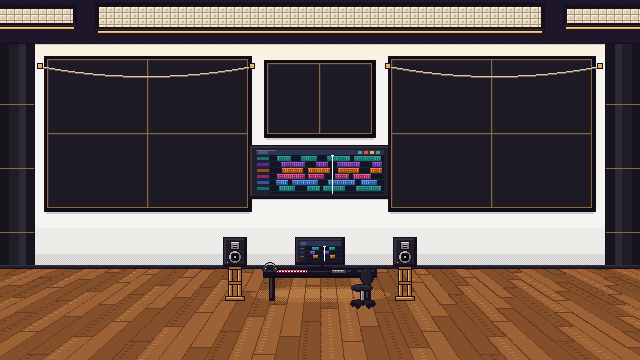
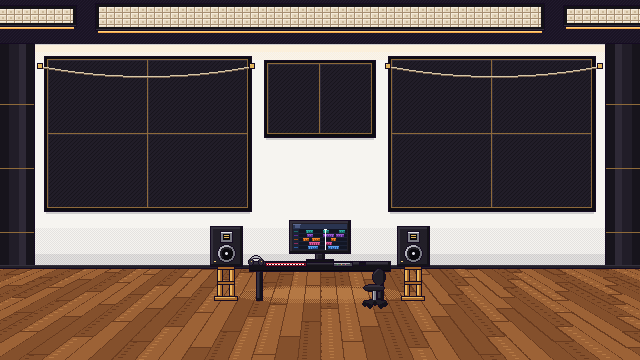
Studio: no wall screen, bigger desk, monitor and speakers; level hint on the wall under the title
Claude-Session: https://claude.ai/code/session_01TasNW2k2gt24iKvy6bENBs

Changed region(s): [[0.3125, 0.6111, 0.6875, 0.8556], [0.375, 0.3972, 0.625, 0.5806]]

diff --git a/src/scenes/HomeScene.js b/src/scenes/HomeScene.js
@@ -5,14 +5,14 @@ import heroJump from '../art/hero/jump.png';
 import { touch, showTouchControls } from '../touch/TouchControls.js';
 import { hasSeenIntro, levelsDone, levelPhoto } from '../progress.js';
 import {
-  preloadHome, cardKey, LEVEL_COUNT, CARD_AT, CARD_WINDOW, SELECT_OFFSET, MONITOR_SCREEN, TITLE_PANEL,
+  preloadHome, cardKey, LEVEL_COUNT, CARD_AT, CARD_WINDOW, SELECT_OFFSET, HINT_AREA, TITLE_PANEL,
 } from '../art/home.js';
 
 const FONT = '"Press Start 2P", monospace';
 const GOLD = '#ffd34a';
 // The levels that exist so far; the others can be unlocked but say "coming soon".
 const BUILT = new Set([1]);
-const BORIS_AT = { x: 300, floor: 300 }; // in front of his desk, under the monitor
+const BORIS_AT = { x: 300, floor: 300 }; // in front of his desk
 
 // The home screen and level menu: Boris's music studio. The 10 levels hang as instant photos on two
 // strings. Finished levels show their winner photo from Felix, the next level has a play arrow, and
@@ -33,7 +33,7 @@ export default class HomeScene extends Phaser.Scene {
 
   create(data) {
     this.add.image(0, 0, 'home-studio').setOrigin(0);
-    // On a phone the cards are tapped directly: tap one to pick it, tap it again (or the monitor) to play.
+    // On a phone the cards are tapped directly: tap one to pick it, tap it again (or the level hint) to play.
     showTouchControls(false);
     this.events.once('shutdown', () => showTouchControls(true));
     this.controls = new Controls(this);
@@ -127,7 +127,7 @@ export default class HomeScene extends Phaser.Scene {
     });
   }
 
-  // The game's name on the empty panel above the monitor.
+  // The game's name on the empty panel at the top of the wall.
   addTitle() {
     const cx = TITLE_PANEL.x + TITLE_PANEL.w / 2;
     const cy = TITLE_PANEL.y + TITLE_PANEL.h / 2;
@@ -135,11 +135,11 @@ export default class HomeScene extends Phaser.Scene {
       .setOrigin(0.5).setShadow(2, 2, '#12081c', 0, false, true).setDepth(2);
   }
 
-  // A short hint on the monitor, over a dark box: which level, and how to play it.
+  // A short hint on the wall under the title, in a dark box: which level, and how to play it.
   addHint() {
-    const cx = MONITOR_SCREEN.x + MONITOR_SCREEN.w / 2;
-    const cy = MONITOR_SCREEN.y + MONITOR_SCREEN.h / 2;
-    this.add.rectangle(cx, cy, MONITOR_SCREEN.w - 6, 30, 0x12081c, 0.88).setDepth(2)
+    const cx = HINT_AREA.x + HINT_AREA.w / 2;
+    const cy = HINT_AREA.y + HINT_AREA.h / 2;
+    this.add.rectangle(cx, cy, HINT_AREA.w - 10, 34, 0x221533).setStrokeStyle(2, 0xe0b45c).setDepth(2)
       .setInteractive({ useHandCursor: true }).on('pointerdown', () => this.play());
     const style = { fontFamily: FONT, fontSize: '8px', align: 'center' };
     this.hintTop = this.add.text(cx, cy - 6, '', { ...style, color: GOLD }).setOrigin(0.5).setDepth(3);

diff --git a/src/art/home.js b/src/art/home.js
@@ -16,7 +16,8 @@ export const CARD_AT = [
 // The photo window on a finished card (transparent; the level's winner photo goes under it).
 export const CARD_WINDOW = { x: 4, y: 10, w: 32, h: 22 };
 export const SELECT_OFFSET = { x: -3, y: 3 };
-export const MONITOR_SCREEN = { x: 256, y: 150, w: 128, h: 44 };
+// Free white wall under the title, between the panels: the level hint goes here, in a dark box.
+export const HINT_AREA = { x: 252, y: 146, w: 136, h: 52 };
 export const TITLE_PANEL = { x: 268, y: 64, w: 103, h: 69 };
 
 export const cardKey = (level, state) => `home-card-${level}-${state}`;

diff --git a/README.md b/README.md
@@ -21,7 +21,7 @@ Controls: left/right arrows to move, up arrow to jump (hold for a higher jump), 
 
 On a phone or tablet the game fills the screen, and the controls are kept small and faint so they hide as little of it as possible (like Leo's Fortune). Put your left thumb down anywhere on the left 45% of the screen: a cross appears under it. Slide left or right to walk, slide further to run, slide down for the VIP door. If your thumb drifts, the cross follows it. On the right, B (shoot, hold to run) and A (jump) are small circles in the margin, but the whole bottom right of the screen is their touch area: a tap there presses whichever button is nearer, and you can slide from one to the other. Computers never show them. Phones play sideways only; held upright, the game pauses and asks you to turn the phone.
 
-**Home screen**: the game opens in Boris's music studio (desk with the PC, big speakers, sound panels, headphones). Boris stands at his desk and turns to the level you pick. The 10 levels hang as instant photos on two strings: finished levels show their winner photo from Felix, the next level has a gold play arrow, and the rest are locked. Pick a level with left/right and play it with up, Space or Enter; on a phone, tap a card to pick it and tap it again (or the monitor) to play. Only level 1 is built so far; later levels say COMING SOON. Finishing a level saves it and its photo in the browser and brings you back to the studio, where the new photo develops on its card. Losing a life restarts the level. The EXIT button in the top left of a level (or the bonus room), or Esc, goes back to the studio. Art in `src/art/home/`.
+**Home screen**: the game opens in Boris's music studio (desk with the PC, big speakers, sound panels, headphones). Boris stands at his desk and turns to the level you pick. The 10 levels hang as instant photos on two strings: finished levels show their winner photo from Felix, the next level has a gold play arrow, and the rest are locked. Pick a level with left/right and play it with up, Space or Enter; on a phone, tap a card to pick it and tap it again (or the level hint) to play. Only level 1 is built so far; later levels say COMING SOON. Finishing a level saves it and its photo in the browser and brings you back to the studio, where the new photo develops on its card. Losing a life restarts the level. The EXIT button in the top left of a level (or the bonus room), or Esc, goes back to the studio. Art in `src/art/home/`.
 
 **Intro story**: the first time you play level 1, it starts in Boris's bedroom, like the start of a Mario game. He wakes up and wonders where Ginger is; walk him out of the door on the right. In the stable, walk up to LEGO the horse and the story plays: the dialog, the note from the Guestlist King, and Boris storming off into level 1. Press up, Space, Enter or tap/click to move the dialog on (a press while text is typing shows it all). The first time it can't be skipped; once you've reached level 1 a SKIP button shows in the top right (or press Esc). That is remembered in the browser. Press S at any time to start the story over.
 
